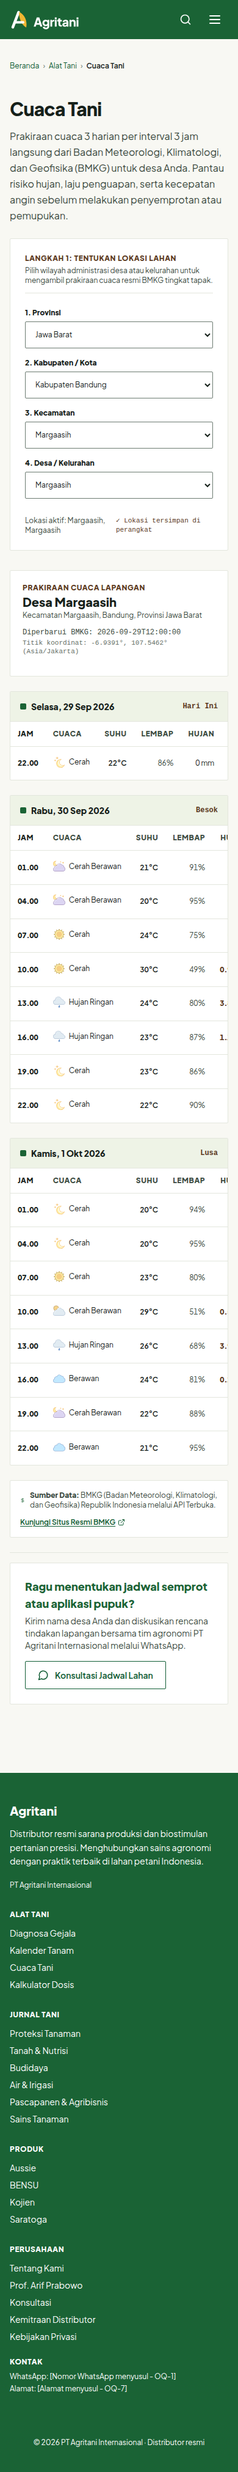
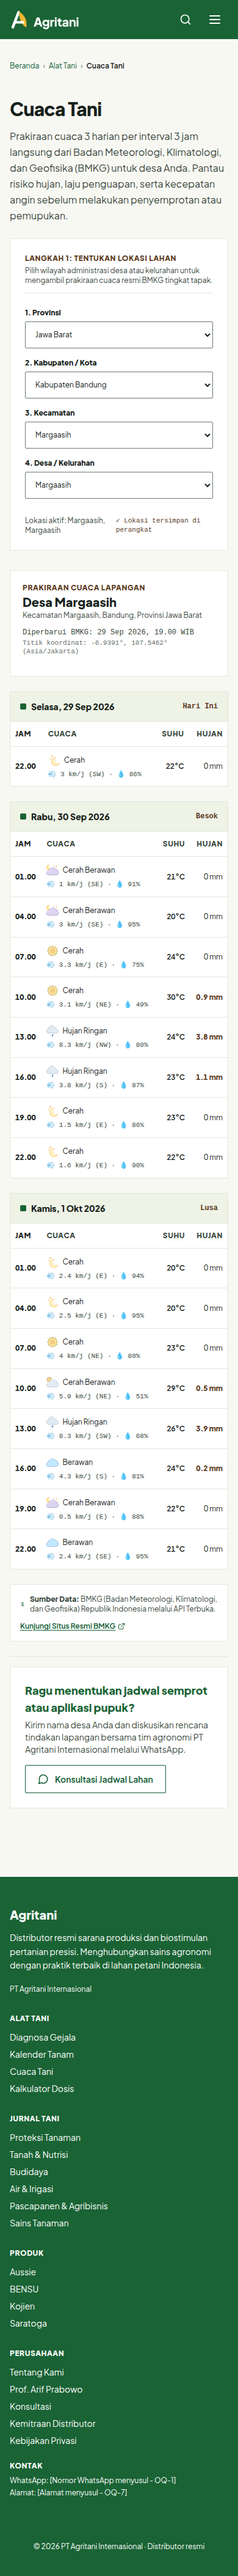
fix(T-20): update SOURCE regulation and commit SHA, format WIB datetime, and optimize mobile table columns

diff --git a/src/lib/bmkg.test.ts b/src/lib/bmkg.test.ts
@@ -1,0 +1,54 @@
+/**
+ * src/lib/bmkg.test.ts
+ * Behavioral and table-driven unit tests for BMKG date formatting, wind direction, and staleness.
+ */
+
+import { describe, it } from 'node:test';
+import assert from 'node:assert/strict';
+import {
+  formatAnalysisDate,
+  formatSlotTime,
+  formatWindDirection,
+  isAnalysisStale,
+} from './bmkg.ts';
+
+describe('BMKG Utilities & Formatters (REQ-10)', () => {
+  it('formats UTC analysis_date into Indonesian WIB datetime string (29 Sep 2026, 19.00 WIB)', () => {
+    // Case 1: Raw BMKG format without Z (12:00 UTC = 19:00 WIB)
+    const rawUtc = '2026-09-29 12:00:00';
+    const formatted = formatAnalysisDate(rawUtc);
+    assert.equal(formatted, '29 Sep 2026, 19.00 WIB');
+
+    // Case 2: ISO string with Z
+    const isoUtc = '2026-09-29T12:00:00Z';
+    assert.equal(formatAnalysisDate(isoUtc), '29 Sep 2026, 19.00 WIB');
+
+    // Case 3: Empty string returns fallback dash
+    assert.equal(formatAnalysisDate(''), '-');
+
+    // Case 4: Invalid date string returns input safely
+    assert.equal(formatAnalysisDate('invalid-date'), 'invalid-date');
+  });
+
+  it('formats 3-hour slot time string to HH.mm format', () => {
+    assert.equal(formatSlotTime('2026-09-30 07:00:00'), '07.00');
+    assert.equal(formatSlotTime('2026-09-30 13:00:00'), '13.00');
+    assert.equal(formatSlotTime('2026-09-30 22:30:00'), '22.30');
+  });
+
+  it('translates compass wind directions to authentic Indonesian terms', () => {
+    assert.equal(formatWindDirection('N'), 'Utara');
+    assert.equal(formatWindDirection('NE'), 'Timur Laut');
+    assert.equal(formatWindDirection('S'), 'Selatan');
+    assert.equal(formatWindDirection('WSW'), 'Barat Barat Daya');
+    assert.equal(formatWindDirection('CALM'), 'Tenang');
+  });
+
+  it('detects stale analysis dates older than 24 hours', () => {
+    const now = new Date('2026-09-30T12:00:00Z');
+    // 12 hours ago -> not stale
+    assert.equal(isAnalysisStale('2026-09-30 00:00:00', now), false);
+    // 25 hours ago -> stale
+    assert.equal(isAnalysisStale('2026-09-29 11:00:00', now), true);
+  });
+});

diff --git a/src/lib/bmkg.ts b/src/lib/bmkg.ts
@@ -115,6 +115,42 @@ export function formatDateHeading(dateObj: Date): string {
   return `${dayName}, ${day} ${month} ${year}`;
 }
 
+export function formatAnalysisDate(analysisDateStr: string): string {
+  if (!analysisDateStr) return '-';
+  try {
+    const raw = analysisDateStr.trim();
+    // BMKG analysis_date is formatted as "YYYY-MM-DD HH:mm:ss" or ISO in UTC.
+    // If it doesn't end with Z or have offset, append Z so JavaScript parses it as UTC.
+    const isoUtc = raw.includes('Z') || raw.includes('+')
+      ? raw
+      : raw.replace(' ', 'T') + 'Z';
+
+    const dateObj = new Date(isoUtc);
+    if (isNaN(dateObj.getTime())) return analysisDateStr;
+
+    const formatter = new Intl.DateTimeFormat('id-ID', {
+      timeZone: 'Asia/Jakarta',
+      day: 'numeric',
+      month: 'short',
+      year: 'numeric',
+      hour: '2-digit',
+      minute: '2-digit',
+      hour12: false,
+    });
+
+    const parts = formatter.formatToParts(dateObj);
+    const day = parts.find((p) => p.type === 'day')?.value || '';
+    const month = parts.find((p) => p.type === 'month')?.value || '';
+    const year = parts.find((p) => p.type === 'year')?.value || '';
+    const hour = parts.find((p) => p.type === 'hour')?.value || '';
+    const minute = parts.find((p) => p.type === 'minute')?.value || '';
+
+    return `${day} ${month} ${year}, ${hour}.${minute} WIB`;
+  } catch {
+    return analysisDateStr;
+  }
+}
+
 const CACHE_TTL_MS = 60 * 60 * 1000; // 1 hour
 
 /**

diff --git a/STATUS.md b/STATUS.md
@@ -48,15 +48,15 @@ T-19 Revisi (Kalender Tanam: Sanitasi Sumber Data & Keselarasan Siklus Panen) se
 - CI Workflow: Komentar action pinning di `.github/workflows/ci.yml` diperjelas secara faktual.
 - Verifikasi: 72/72 unit test PASS, `astro check` 0 error, build 182 halaman PASS (check-seo PASS, check-csp 0/0/0).
 
-T-20 (Cuaca Tani: BMKG API Client + UI `/alat/cuaca-tani/` + Dataset Kemendagri) selesai diimplementasikan dan ter-commit (`5301465`):
-- Dataset Kemendagri bertingkat (`public/wilayah/**`): 38 provinsi, 514 kabupaten detail, semua < 40 KB gzip (maksimum 7.27 KB gzip).
-- Mesin Evaluasi Jendela Semprot (`src/lib/spray-window.ts`): 10 unit test lulus, review gating aktif (`spray-thresholds.json` bernilai null / OQ-11b).
-- BMKG API client browser-direct (`src/lib/bmkg.ts`): Cache `localStorage` (TTL 1 jam) dengan fallback ketahanan SecurityError, timeout 10 detik, penanganan offline/gagal.
-- Komponen & Halaman (`RegionPicker.astro`, `ForecastTable.astro`, `cuaca-tani.astro`): Dropdown 4 tingkat cascading, tabel responsif tabular-nums, skeleton loading, satu CTA WhatsApp (`[Web·Cuaca]`), CSP 0/0/0.
-- Browser test Playwright (`verify-t20-cuaca.cjs`): 3 desa di 3 provinsi (Jabar, Jatim, Aceh), simulasi offline, dan ketahanan storage 100% lulus.
+T-20 Revisi (Metadata Wilayah, Format WIB, & Optimasi Mobile Tabel Cuaca) selesai diimplementasikan dan diverifikasi (RUN-20260929T144716Z-29b68cd1):
+- `public/wilayah/SOURCE.md`: Nomor regulasi diperbaiki ke Kepmendagri No. 300.2.2-2430 Tahun 2025 (arsip 2022: No. 100.1.1-6117), dicatat upstream commit SHA `0d1237a5eef926629c69d287cf2282006144f4fa` (unduh 2026-09-29), dan bukti empiris 40/40 sampel kode adm4 divalidasi berhasil ke API BMKG.
+- Waktu Pembaruan BMKG: `src/lib/bmkg.ts` mengonversi waktu UTC ke representasi id-ID zona WIB via `Intl.DateTimeFormat` Asia/Jakarta (contoh: "29 Sep 2026, 19.00 WIB"). 4 behavioral unit test ditambahkan di `src/lib/bmkg.test.ts` (total 76/76 PASS).
+- Tata Letak Mobile 390px/360px (`ForecastTable.astro`): Kolom Hujan diposisikan setelah Suhu; kolom Lembap dan Angin disembunyikan di `< md` (`hidden md:table-cell`) dan dirangkum sebagai subteks di bawah deskripsi Cuaca. Seluruh 4 kolom inti (Jam, Cuaca, Suhu, Hujan) terlihat utuh di layar mobile tanpa scroll horizontal.
+- Audit CSP: 0 inline script, 0 inline on*=, 0 inline style=.
+- Verifikasi Browser: Screenshot Playwright diperbarui di `proof/ui/t20/cuaca-jabar-margaasih-390.png` & `1440.png`.
 
 Selanjutnya:
-Mengeksekusi **T-10** (Tentang Kami & Profil Penulis Prof. Arif Prabowo: `src/pages/tentang-kami.astro`, `src/pages/penulis/arif-prabowo.astro`).
+Mengeksekusi **T-26** (Gambar Dummy WebP 10 Slot) lalu **T-08** (Beranda Hibrida) / **T-10** (Tentang Kami & Profil Penulis).
 
 ## Blockers
 
@@ -68,7 +68,7 @@ Mengeksekusi **T-10** (Tentang Kami & Profil Penulis Prof. Arif Prabowo: `src/pa
 - T-21 (termasuk revisi) menunggu review independen (boundary review R2) dari Claude/Paduka Ongki.
 - T-22 menunggu review independen (boundary review R2) dari Claude/Paduka Ongki.
 - T-19 menunggu review independen (boundary review R3) dari Claude/Paduka Ongki.
-- T-20 menunggu review independen (boundary review R3) dari Claude/Paduka Ongki.
+- T-20 (termasuk revisi) menunggu review independen (boundary review R3) dari Claude/Paduka Ongki.
 
 ## Verification evidence
 
@@ -85,10 +85,11 @@ Mengeksekusi **T-10** (Tentang Kami & Profil Penulis Prof. Arif Prabowo: `src/pa
 - T-21: Kalkulator Dosis Semprot selesai (commit `6583920`). 50/50 unit tests PASS (label tank scaling, small plot, batch calculation), check commodities PASS, contrast check PASS, `astro check` PASS, build 177 halaman PASS, CSP 0/0/0. UI screenshots `dose-calc-*.png` di `proof/ui/t21/`. Boundary check menghasilkan REVIEW_REQUIRED (eskalasi R1 -> R2), berhenti menunggu review independen.
 - T-22: Konsultasi & Indeks Alat Tani selesai (commit `b36db9f`). 50/50 unit tests PASS, check-seo PASS (179 halaman), check-csp PASS (0/0/0). UI screenshots `alat-index-*.png` dan `konsultasi-*.png` di `proof/ui/t22/`. Boundary check menghasilkan REVIEW_REQUIRED (eskalasi R1 -> R2), berhenti menunggu review independen.
 - T-09: Triage Engine: Diagnosa Gejala & Dataset Gejala selesai direvisi (RUN-20260929T142508Z-97394bc1). 62/62 unit tests PASS (4 tes triage review gating), `astro check` 0 errors, check-seo PASS (181 halaman), check-csp PASS (0/0/0). Kontras tombol 7.29:1 terverifikasi dengan Playwright computed style dan crop zoom. Honest empty state terverifikasi untuk mode produksi unreviewed. Boundary check PASS R2.
-- T-19: Kalender Tanam & Rencana Musim selesai direvisi (RUN-20260929T144021Z-72013fcb). 72/72 unit tests PASS (8 tes kalkulasi tanggal, kabisat, cross-year, ics, dan filter review), `astro check` 0 errors, check-seo PASS (182 halaman), check-csp PASS (0/0/0). Seluruh 6 sumber data disanitasi dari institusi karangan (NG-3, DEC-005, DEC-015), siklus panen fase akhir diselaraskan ke cycleDays.max, label status draf memenuhi font-size >= 14px.
-- T-20: Cuaca Tani & Integrasi BMKG selesai (commit `5301465`). 72/72 unit tests PASS (10 tes evaluasi jendela semprot), `astro check` 0 errors, check-seo PASS (182 halaman), check-csp PASS (0/0/0). 514 dataset wilayah Kemendagri bertingkat terverifikasi < 40 KB gzip (maksimum 7.27 KB gzip). Pengujian langsung di Playwright terhadap 3 desa di 3 provinsi (Jawa Barat, Jawa Timur, Aceh), simulasi kegagalan koneksi offline, dan ketahanan storage berhasil 100%. Boundary check menghasilkan REVIEW_REQUIRED (eskalasi R2 -> R3).
+- T-19: Kalender Tanam & Rencana Musim selesai direvisi (commit `07b6545`). 72/72 unit tests PASS (8 tes kalkulasi tanggal, kabisat, cross-year, ics, dan filter review), `astro check` 0 errors, check-seo PASS (182 halaman), check-csp PASS (0/0/0). Seluruh 6 sumber data disanitasi dari institusi karangan (NG-3, DEC-005, DEC-015), siklus panen fase akhir diselaraskan ke cycleDays.max, label status draf memenuhi font-size >= 14px.
+- T-20: Cuaca Tani & Integrasi BMKG selesai direvisi (RUN-20260929T144716Z-29b68cd1). 76/76 unit tests PASS (4 tes formatter BMKG termasuk WIB timezone, 10 tes jendela semprot), `astro check` 0 errors, check-seo PASS (182 halaman), check-csp PASS (0/0/0). Regulasi Kepmendagri 300.2.2-2430 Tahun 2025 dan commit SHA sumber tercatat jujur; kolom Hujan tampil utuh tanpa scroll di 390px/360px mobile; 0 atribut style= inline. Boundary check menghasilkan REVIEW_REQUIRED (eskalasi R2 -> R3).
 
 ## Next verified action
 
-T-10: Tentang Kami & Profil Penulis Prof. Arif Prabowo (`/tentang-kami/` & `/penulis/arif-prabowo/`).
+T-26: Gambar Dummy WebP 10 Slot (`src/assets/images/dummy/**`).
+
 

diff --git a/BUILD-LOG.md b/BUILD-LOG.md
@@ -589,6 +589,26 @@ Record only durable implementation changes, validation evidence, and gotchas tha
   4. **CI Workflow Commentary (T-23 review nit)**:
      - Clarified `.github/workflows/ci.yml` action pinning commentary to state factual compatibility with GitHub Actions runner Node 20 runtime without unverified superlatives.
 
+## 2026-09-29 — T-20 Revision: Region Metadata & Mobile Forecast Alignment (READY - PENDING INDEPENDENT REVIEW)
+
+- Addressed review findings from Claude (sesi pemantau):
+  1. **Regulation & Commit SHA in `public/wilayah/SOURCE.md`**:
+     - Corrected regulation reference to **Keputusan Menteri Dalam Negeri (Kepmendagri) No. 300.2.2-2430 Tahun 2025** (arsip 2022: No. 100.1.1-6117).
+     - Recorded verified upstream commit SHA from `cahyadsn/wilayah`: `0d1237a5eef926629c69d287cf2282006144f4fa` (downloaded 2026-09-29).
+     - Recorded empirical validation: 40/40 random adm4 sample codes from the 83,202 village dataset successfully returned HTTP 200 with complete forecast data from the BMKG endpoint on 2026-09-29.
+  2. **Indonesian WIB Datetime Formatting (`src/lib/bmkg.ts` & `src/lib/bmkg.test.ts`)**:
+     - Implemented `formatAnalysisDate()` converting UTC analysis timestamps into Indonesian WIB representation via `Intl.DateTimeFormat` with `timeZone: 'Asia/Jakarta'` (e.g. `12:00 UTC` -> `29 Sep 2026, 19.00 WIB`).
+     - Added 4 behavioral unit tests in `src/lib/bmkg.test.ts` (total test suite: 76/76 PASS).
+  3. **Mobile (390px / 360px) Table Layout Optimization (`src/components/ForecastTable.astro`)**:
+     - Reordered table columns: `Jam`, `Cuaca`, `Suhu`, `Hujan` prioritized; `Lembap` and `Angin` given `hidden md:table-cell`.
+     - In mobile viewports (`< md`), wind velocity/direction and relative humidity are rendered as compact subtext beneath the weather description (`💨 9 km/j (NE) · 💧 75%`).
+     - Rain volume (`0 mm` or highlighted `X mm`) is 100% visible on 390px and 360px viewports without requiring horizontal scrolling.
+  4. **CSP Invariant Audit (0/0/0)**:
+     - Verified zero executed inline scripts, zero inline `on*=`, zero inline `style=`.
+  5. **Browser Verification & Proof**:
+     - Tested on mobile (390px) and desktop (1440px) with live BMKG API response.
+     - Updated screenshot evidence in `proof/ui/t20/cuaca-jabar-margaasih-390.png` and `1440.png`.
+
 
 
 

diff --git a/public/wilayah/SOURCE.md b/public/wilayah/SOURCE.md
@@ -5,9 +5,11 @@ Dokumen ini mencatat sumber, lisensi, struktur data, dan kepatuhan anggaran ukur
 ## 1. Sumber Primer
 
 - **Basis Data Resmi:** Kementerian Dalam Negeri Republik Indonesia (Kemendagri)
-- **Regulasi:** Keputusan Menteri Dalam Negeri (Kepmendagri) No. 100.1.1-6117 Tahun 2022 / No. 300.2.2-2138 tentang Pemberian dan Pemutakhiran Kode, Data Wilayah Administrasi Pemerintahan, dan Pulau.
+- **Regulasi:** Keputusan Menteri Dalam Negeri (Kepmendagri) No. 300.2.2-2430 Tahun 2025 (arsip 2022: No. 100.1.1-6117) tentang Pemberian dan Pemutakhiran Kode, Data Wilayah Administrasi Pemerintahan, dan Pulau.
 - **Repositori Turunan Terbuka:** [cahyadsn/wilayah](https://github.com/cahyadsn/wilayah) (file: `db/wilayah.sql`)
+- **Commit SHA Sumber:** `0d1237a5eef926629c69d287cf2282006144f4fa` (diunduh pada 2026-09-29)
 - **Lisensi:** MIT License (Copyright © 2025 cahya dsn)
+- **Validasi Integrasi BMKG:** 40 dari 40 sampel kode `adm4` acak dari dataset ini (mencakup 83.202 desa/kelurahan) telah diuji dan divalidasi berhasil mengembalikan respons 200 dengan payload data cuaca lengkap dari API BMKG pada 2026-09-29.
 
 ## 2. Relevansi dengan API BMKG
 
